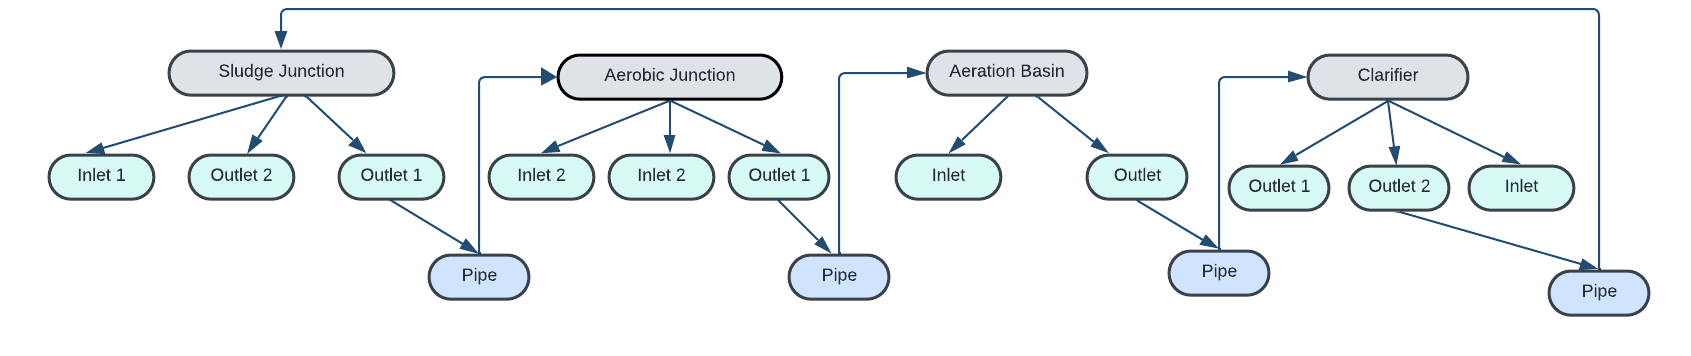
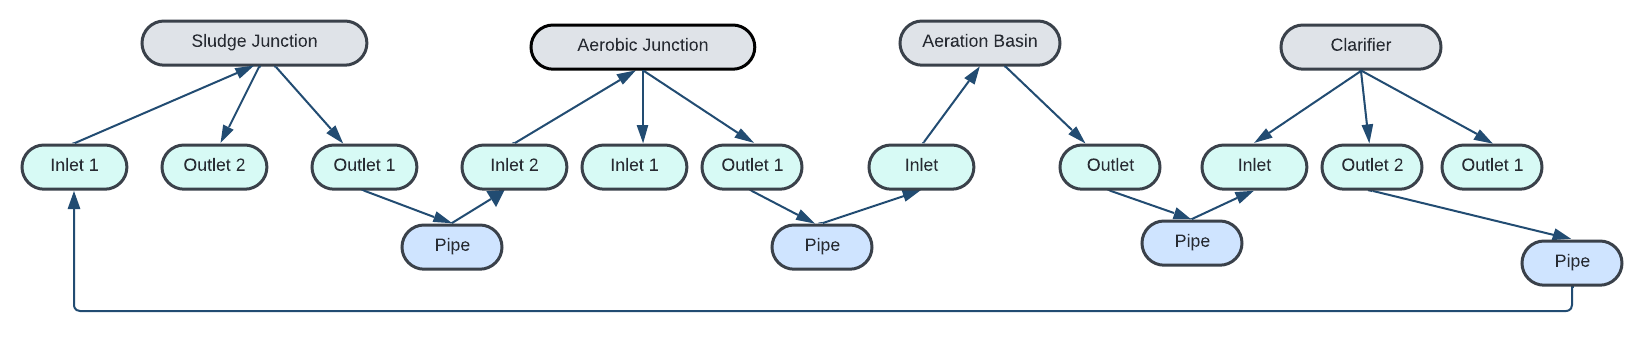
Updated the figure and added details

diff --git a/docs/explanation/flow_graph_sensor.md b/docs/explanation/flow_graph_sensor.md
@@ -7,21 +7,26 @@ To determine the **optimal locations for sensor placement** in a water treatment
 
 **Edges** represent water flows between these components.
 
-We generate this graph from an RDF-based model of the plant. The graph abstraction implemented here is based on WWTP1, described in the paper["Optimal flow sensor placement on wastewater treatment plants" by Villez et al. (2016)](https://doi.org/10.1016/j.watres.2016.05.068). We can identify a **minimal set of sensor placements** that covers all flows in the system.
+We generate this graph from an RDF-based model of the plant. The graph abstraction implemented here is based on WWTP1, described in the paper ["Optimal flow sensor placement on wastewater treatment plants" by Villez et al. (2016)](https://doi.org/10.1016/j.watres.2016.05.068). We can identify a **minimal set of sensor placements** that covers all flows in the system.
+## Graph Construction Using SPARQL Rules
+In the RDF based model, equipments are connected indirectly through multiple layers.
+
+**Each connection flows from:**  
+  ```
+  Equipment ->  Outlet Connection point -> Pipe -> Inlet Connection Point -> Equipment
+  ```
+In some cases, a an equipment or junction may connect directly to another equipment or junction through a pipe, bypassing any intermediate Inlet or Outlet connection point. This structure makes it complicated for sensor placement analys. Therefore we simplify the topology as described by Villez et al. (2016) traversing only the most essential paths that reflect actual flow of material through pipes using SPARQL queries. We follow the connectsFrom and connectsTo relationships, to bypass intermediate nodes like connection points or junctions.
 
 ## Ensuring Graph Completeness
 
-To make the graph **fully closed** (i.e., all flows are accounted for), we introduce a special node called **`Environment`**, which represents everything external to the system. This connects all **inflows** and **outflows** to a common endpoint.
+To make the graph **fully closed** (i.e., all flows are measured), we introduce a special node called **`Environment`**, which represents everything external to the system. This connects all **inflows** and **outflows** to a common endpoint.
 Prevents unconnected “open ends” where water appears or disappears.
-Enforces **conservation** throughout the graph.
+Enforces flow **conservation** throughout the graph.
 
-## Graph Construction Using SPARQL Rules
-
-We use **SPARQL queries** to extract the necessary structure from the RDF model and simplify it into a usable flow graph. These rules:
-
-Identify connections between devices and pipes.
-Ignores non-essential intermediary nodes.
-Attach unconnected flow endpoints to the `Environment`.
+We use **two SPARQL Rules** (Pipe Rule and Enviroment Rule) to extract the necessary structure from the RDF model and simplify it into a usable flow graph. These SPARQL rules:
+- **Identify connections between devices and pipes.**
+- **Ignores non-essential intermediary nodes.**
+- **Attach unconnected flow endpoints to the `Environment`.**
 
 
 ## Visual Transformation Overview
@@ -113,7 +118,7 @@ SELECT ?from ?conn ?to WHERE {
     Marks the endpoint as `Environment`.  
   - **Resulting connection:**  
     ```
-    Device-> connects_to_env -> Environment
+    Equipment-> connects_to_env -> Environment
     ```
 
 - **Branch 2 (Inlet):**  
@@ -129,7 +134,7 @@ SELECT ?from ?conn ?to WHERE {
     Marks the source as `Environment`.  
   - **Resulting connection:**  
     ```
-    Environment ->  connects_to_env -> Device
+    Environment ->  connects_to_env -> Equipment
     ```
 
 
